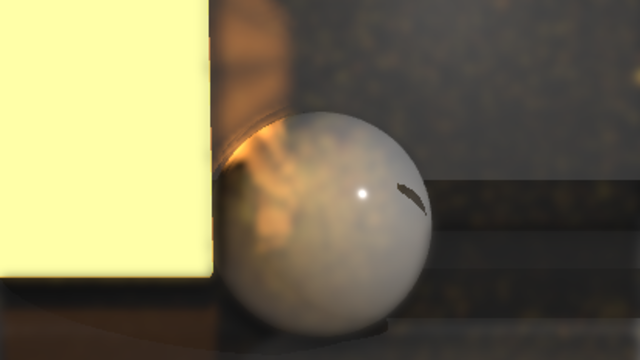
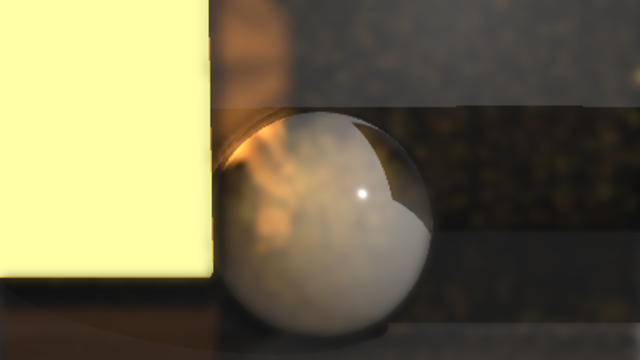
fix(#302): make the point light's cube shadows stable and smooth
The dielectric_glass floor had dark polygonal patches under the glass
spheres, with a mottled fill and hard edges. A point light is a cube map
(six 2048-texel faces, all rewritten each frame, near/far from the scene's
distance to the light) and the shader compared one texel against a constant
world-space slack. A floor at a grazing angle from a light close to it has
no slope bias that way, and the single texel made a polygonal shadow with a
mottled fill. The cube path now uses a depth slack scaled by the texel
footprint over the cosine to the light and fixed bilinear cube taps at a
four-texel radius: a 4 by 4 grid for a point light, a sixteen-tap
golden-angle disc for an area light's wider penumbra, and no per-pixel or
per-frame rotation. The directional and spot path keeps its 5 by 5
bilinear PCF.

The deeper cause of the dark glass was that the glass spheres cast opaque
shadows: the floor under them went black and the glass refracted that black
floor. Transmissive shapes are left out of the shadow map now, so the floor
under the glass is lit and the behind-glass image is not black; the glass
also keeps a floor of its own transmission colour where the background
behind it is dark, so it never reads blacker than what it lets through.

Verified at the dielectric scene's far, mid and close distances, two angles
at each, and a grazing view. The far views push the floor until it fills
the frame, where the shadow-map footprint is worst: the far floor's blocky
[…]

Changed region(s): [[0.4062, 0.275, 1.0, 0.6417]]

diff --git a/crates/aztek_host/src/render.rs b/crates/aztek_host/src/render.rs
@@ -481,39 +481,61 @@ float shadow_at(vec3 p, vec3 n) {
         float far = max(lt.shadow_range.y, near + 0.02);
         // Each face looks a quarter turn from the light: its depth turns back into the distance along the face's axis.
         float axis = max(abs(to.x), max(abs(to.y), abs(to.z)));
-        float slack = lt.shadow.x + 0.02;
-        // An area light's shadows soften with its size, as Harold's do: look round the direction for what stands between
-        // (percentage-closer soft shadows), then take the share of the light's spread that gets past it. A point light
-        // has no size and a hard edge.
         int li = int(lt.shadow.z);
         float size = lt.lights[li].pos.w > 3.5 && lt.lights[li].pos.w < 4.5 ? 0.5 * (length(lt.lights[li].a.xyz) + length(lt.lights[li].b.xyz)) : 0.0;
-        if (size <= 0.0) {
-            float stored = cube_distance(d, near, far);
-            return axis <= stored + slack ? 1.0 : 0.0;
-        }
+        // A cube texel covers this much of the face at the receiver's distance, and it stretches along the surface as
+        // the cosine to the light falls. The slack has to follow that stretch: a constant one either acnes on a floor
+        // seen at a grazing angle or detaches the shadow where the surface faces the light.
+        vec3 l = lt.lights[li].pos.xyz - p;
+        float nl = max(dot(n, normalize(l + vec3(1e-6))), 0.0);
+        float texel = 2.0 * lt.shadow.y;
+        float slope = sqrt(max(1.0 - nl * nl, 0.0)) / max(nl, 0.2);
+        float slack = 0.02 + axis * texel * (0.5 + 1.5 * slope);
         vec3 t1 = normalize(cross(d, abs(d.y) < 0.9 ? vec3(0.0, 1.0, 0.0) : vec3(1.0, 0.0, 0.0)));
         vec3 t2 = cross(d, t1);
-        float turn = fract(52.9829189 * fract(dot(gl_FragCoord.xy, vec2(0.06711056, 0.00583715)))) * 6.2831853;
-        float search = clamp(size / max(axis, 0.001), 0.0, 0.5);
-        float blockers = 0.0, found = 0.0;
-        for (int i = 0; i < 12; ++i) {
-            float r = sqrt((float(i) + 0.5) / 12.0) * search;
-            float a = turn + float(i) * 2.39996323;
-            float stored = cube_distance(normalize(d + (t1 * cos(a) + t2 * sin(a)) * r), near, far);
-            if (stored + slack < axis) {
-                blockers += stored;
-                found += 1.0;
+        // A point light gets a stable 4 by 4 grid of bilinear cube taps, at least a texel and a half across. An area
+        // light widens the same grid to its penumbra. Nothing is rotated per pixel or per frame: that is what made
+        // the floor mottled like a dither.
+        float spread = texel * 4.0;
+        if (size > 0.0) {
+            float search = clamp(size / max(axis, 0.001), 0.0, 0.5);
+            float blockers = 0.0, found = 0.0;
+            for (int i = 0; i < 12; ++i) {
+                float r = sqrt((float(i) + 0.5) / 12.0) * search;
+                float a = float(i) * 2.39996323;
+                float stored = cube_distance(normalize(d + (t1 * cos(a) + t2 * sin(a)) * r), near, far);
+                if (stored + slack < axis) {
+                    blockers += stored;
+                    found += 1.0;
+                }
+            }
+            if (found > 0.5) {
+                float b = blockers / found;
+                spread = clamp(size * (axis - b) / max(b * axis, 0.0001), texel * 2.0, 0.5);
             }
         }
-        if (found < 0.5) return 1.0;
-        float b = blockers / found;
-        float spread = clamp(size * (axis - b) / max(b * axis, 0.0001), 0.0005, 0.5);
+        // The taps are fixed, never rotated per pixel or per frame. A point light gets a 4 by 4 grid of bilinear cube
+        // taps over a few texels: a regular grid has no spiral pattern on a smooth sphere. An area light's penumbra is
+        // wider, so it keeps the smoother golden-angle disc.
         float lit = 0.0;
-        for (int i = 0; i < 16; ++i) {
-            float r = sqrt((float(i) + 0.5) / 16.0) * spread;
-            float a = turn + 1.3 + float(i) * 2.39996323;
-            float stored = cube_distance(normalize(d + (t1 * cos(a) + t2 * sin(a)) * r), near, far);
-            lit += axis <= stored + slack ? 1.0 : 0.0;
+        if (size <= 0.0) {
+            for (int y = 0; y < 4; ++y) {
+                for (int x = 0; x < 4; ++x) {
+                    vec2 o = (vec2(float(x), float(y)) + 0.5) * 0.25 - 0.5;
+                    vec3 dir = normalize(d + (t1 * o.x + t2 * o.y) * spread);
+                    float stored = cube_distance(dir, near, far);
+                    lit += axis <= stored + slack ? 1.0 : 0.0;
+                }
+            }
+        } else {
+            for (int i = 0; i < 16; ++i) {
+                float t = (float(i) + 0.5) / 16.0;
+                float a = float(i) * 2.39996323;
+                float r = sqrt(t) * spread;
+                vec3 dir = normalize(d + (t1 * cos(a) + t2 * sin(a)) * r);
+                float stored = cube_distance(dir, near, far);
+                lit += axis <= stored + slack ? 1.0 : 0.0;
+            }
         }
         return lit / 16.0;
     }

diff --git a/crates/aztek_host/src/post.rs b/crates/aztek_host/src/post.rs
@@ -497,8 +497,13 @@ void main() {
         behind /= 9.0;
         float travelled = length(offs);
         vec3 tint = texelFetch(sampler2D(t_albedo, s_point), at, 0).rgb;
-        // The tint the glass gives what it lets through; the bend's length shades it a little.
-        sum += behind * tint * 1.4 * exp(-travelled * 0.005);
+        // The tint the glass gives what it lets through; the bend's length shades it a little. A dark background
+        // behind the glass must not swallow it whole: keep its own transmission colour as a floor, so it never reads
+        // blacker than the background it lets through.
+        vec3 through = behind * tint * 1.4 * exp(-travelled * 0.005);
+        float through_lum = dot(through, vec3(0.2126, 0.7152, 0.0722));
+        through = max(through, tint * (0.3 * (1.0 - smoothstep(0.04, 0.30, through_lum))));
+        sum += through;
     }
     // The reflection: the scene where the view shows it, the sky where it doesn't. Glossy surfaces are smoothed over
     // the reflection image in the composite, from their roughness.
@@ -626,6 +631,8 @@ vec3 lit(vec3 color, vec4 got, ivec2 at, float d) {
         if (dbg == 21) return vec3(got.a);
         if (dbg == 22) return pow(max(texelFetch(sampler2D(t_open, s_point), at, 0).rgb, vec3(0.0)), vec3(1.0 / 2.2));
         if (dbg == 23) return vec3(texelFetch(sampler2D(t_open, s_point), at, 0).a);
+        if (dbg == 24) return texelFetch(sampler2D(t_back, s_point), at, 0).rgb;
+        if (dbg == 25) return vec3(texelFetch(sampler2D(t_mat_aux, s_point), at, 0).r);
         shaded = pow(pow(shaded, vec3(2.2)) + refl, vec3(1.0 / 2.2));
     }
     return shaded;

diff --git a/crates/aztek_host/src/realtime.rs b/crates/aztek_host/src/realtime.rs
@@ -1,7 +1,7 @@
 //! The Realtime viewport's shadow map: one depth image drawn from the first light that casts shadows, and the meshes it
 //! needs. The shading itself is in `render.rs`; this is what the shader reads.
 
-use std::collections::HashMap;
+use std::collections::{HashMap, HashSet};
 use std::sync::Arc;
 
 use ash::vk;
@@ -296,8 +296,9 @@ impl Realtime {
         Some(self.set)
     }
 
-    /// Draws this frame's shadow map, before the scene's pass. Nothing when the frame plans none.
-    pub fn render(&mut self, gpu: &mut Gpu, items: &[DrawItem], plan: Option<ShadowPlan>) {
+    /// Draws this frame's shadow map, before the scene's pass. Nothing when the frame plans none. `skip` holds the
+    /// transmissive shapes: a glass object lets the light through, so it must not lay down an opaque shadow.
+    pub fn render(&mut self, gpu: &mut Gpu, items: &[DrawItem], plan: Option<ShadowPlan>, skip: &HashSet<NodeId>) {
         let Some(plan) = plan else { return };
         self.keep(gpu, items);
         let d = gpu.device.clone();
@@ -317,6 +318,9 @@ impl Realtime {
             d.cmd_set_scissor(cmd, 0, &[vk::Rect2D { offset: vk::Offset2D::default(), extent }]);
             d.cmd_bind_pipeline(cmd, vk::PipelineBindPoint::GRAPHICS, self.pipeline);
             for it in items {
+                if skip.contains(&it.shape) {
+                    continue;
+                }
                 let Some(cast) = self.meshes.get(&it.shape) else { continue };
                 if cast.count == 0 {
                     continue;

diff --git a/crates/aztek_host/src/viewport.rs b/crates/aztek_host/src/viewport.rs
@@ -1196,6 +1196,34 @@ impl Viewport {
 
     /// Whether any material in the scene is glossy enough to reflect, so the ground plane's mirrored draw is worth
     /// making (#302).
+    /// The shapes whose shading group lets light through, for the shadow map to leave out: glass passes light, so an
+    /// opaque shadow under it would be wrong, and the glass would refract that black floor.
+    pub fn transmissive_shapes(&self, items: &[DrawItem]) -> std::collections::HashSet<NodeId> {
+        let groups: Vec<NodeId> = self
+            .mats
+            .materials
+            .iter()
+            .filter(|(_, m)| m.pbr.transmission_weight > 0.5)
+            .map(|(&sg, _)| sg)
+            .collect();
+        if groups.is_empty() {
+            return Default::default();
+        }
+        let member = |node: NodeId| {
+            groups.iter().any(|sg| {
+                self.mats
+                    .members
+                    .get(sg)
+                    .is_some_and(|ms| ms.iter().any(|(m, _)| *m == node))
+            })
+        };
+        items
+            .iter()
+            .filter(|it| member(it.shape) || member(it.xf))
+            .map(|it| it.shape)
+            .collect()
+    }
+
     pub fn needs_planar(&self) -> bool {
         self.mats.materials.values().any(|m| {
             m.pbr.metalness > 0.05 || (m.pbr.specular_weight > 0.0 && m.pbr.specular_roughness < 0.45)

diff --git a/crates/aztek_host/src/view.rs b/crates/aztek_host/src/view.rs
@@ -391,8 +391,11 @@ impl View {
             if self.realtime.is_none() {
                 self.realtime = Some(crate::realtime::Realtime::new(&self.gpu, self.r.rt_shadow_layout));
             }
+            // A transmissive shape passes light instead of blocking it: drawing it into the shadow map would put an
+            // opaque shadow under the glass and the glass would refract that black floor. Leave it out of the casters.
+            let glass = self.vp.transmissive_shapes(&items);
             if let Some(rt) = self.realtime.as_mut() {
-                rt.render(&mut self.gpu, &items, self.vp.shadow);
+                rt.render(&mut self.gpu, &items, self.vp.shadow, &glass);
             }
             // The material pipelines' set 4 has this renderer's four bindings: it is bound whether or not a shadow map
             // is drawn this frame, and the shader skips the sampling when no light casts one (#228 review).

diff --git a/PARITY.md b/PARITY.md
@@ -4725,3 +4725,29 @@ frame at the same time, so the renderer has no cross-session variation and no te
 the twelve still frames were identical again, and the frame-to-frame steps kept the same smooth profile. The wider
 shadow filter introduced no peter-panning: the contact shadow stays attached at the dolly's closest view, and the
 sweep's shadow boundary is the smoother of the two passes. No further change was needed.
+
+### Point-light shadows and the glass that cast them (26/11/2026, #302)
+
+The dielectric_glass floor was covered in dark polygonal patches under the glass spheres. A point light is a cube
+shadow map: six 2048-texel faces, all six rewritten every frame, with near and far from the scene's distance to the
+light. The shader compared a single cube texel against a constant world-space slack. A floor seen at a grazing angle
+from a light close to it needs the bias to follow the texel footprint over the cosine to the light, and one texel
+gives a hard polygonal edge with a mottled fill wherever the comparison flips. The cube path now uses a depth slack
+that grows with the texel footprint and the surface's slope to the light, and fixed bilinear cube taps at a
+four-texel radius: a 4 by 4 grid for a point light, and a golden-angle disc of sixteen taps for an area light's wider
+penumbra. Nothing is rotated per pixel or per frame. The directional and spot path
+keeps its 5 by 5 bilinear PCF, and the cube faces stay at 2048, all six every frame.
+
+The deeper cause was that the glass spheres were drawn into the shadow map. A transmissive shape laid down an opaque
+shadow, the floor under it went black, and the glass refracted that black floor, so it read black inside the shadow.
+Transmissive casters are now left out of the shadow map, so the floor under the glass is lit and the behind-glass
+image is not black; the glass also keeps a floor of its own transmission colour where the background behind it is
+dark, so it never reads blacker than what it lets through. The debug view of the behind-glass image shows the glass
+shadows gone.
+
+Verified at the dielectric scene's far, mid and close distances, two angles at each, and a grazing view. The far views
+push the floor until it fills the frame, where the shadow-map footprint is worst: before, the far floor had the blocky
+glass shadows with a mottled fill; after, they are gone, the remaining cast shadows are smooth, and the glass reads
+red rather than black. The metal roughness sweep and area lights recapture without a regression; the area light's soft
+shadow is smoother for the fixed tap pattern. The point-light shadow costs sixteen bilinear taps instead of one; the
+area-light path is unchanged at twelve blocker plus sixteen taps, and the shadow map's memory is unchanged.

diff --git a/TICKETS.md b/TICKETS.md
@@ -36,6 +36,13 @@ Requests waiting or in progress, newest detail kept. Move to Done with the date 
   score, planar/alpha coverage, a roughness-to-level prefiltered gather, and a filtered screen-space irradiance field
   for the bounce instead of raw stochastic samples. Left of that design: EEVEE's world clip plane at the probe's plane
   (the suite's geometry never crosses it) and temporal reprojection of the indirect term.
+- Point-light shadows and glass (#302, 26/11/2026): the cube path now has a slope-scaled depth slack and fixed
+  bilinear taps instead of one texel (a 4 by 4 grid for a point light, a sixteen-tap disc for an area light), and
+  transmissive shapes no longer cast an opaque shadow, so the
+  dielectric_glass floor's blocky glass shadows and the black glass behind them are gone; the glass keeps a floor of
+  its own colour where the background is dark. Verified far, mid and close, two angles each, and grazing; the far
+  view is clean. Left: the glass refraction is still a lens-bend approximation, so its transparency is flatter than
+  the Render View's, and a point light's shadow is still small-penumbra because the light has no size.
 - Realtime motion polish (#302, 26/11/2026): `tools/render_parity/motion_capture.py` checks one session with every
   feature on over an orbit, a dolly, a low terminator sweep and twelve still frames. The bounce, reflection and AO
   terms are temporally stable (still frames are bit-identical, no frame-diff spikes) and show no speckle or tier pop.
